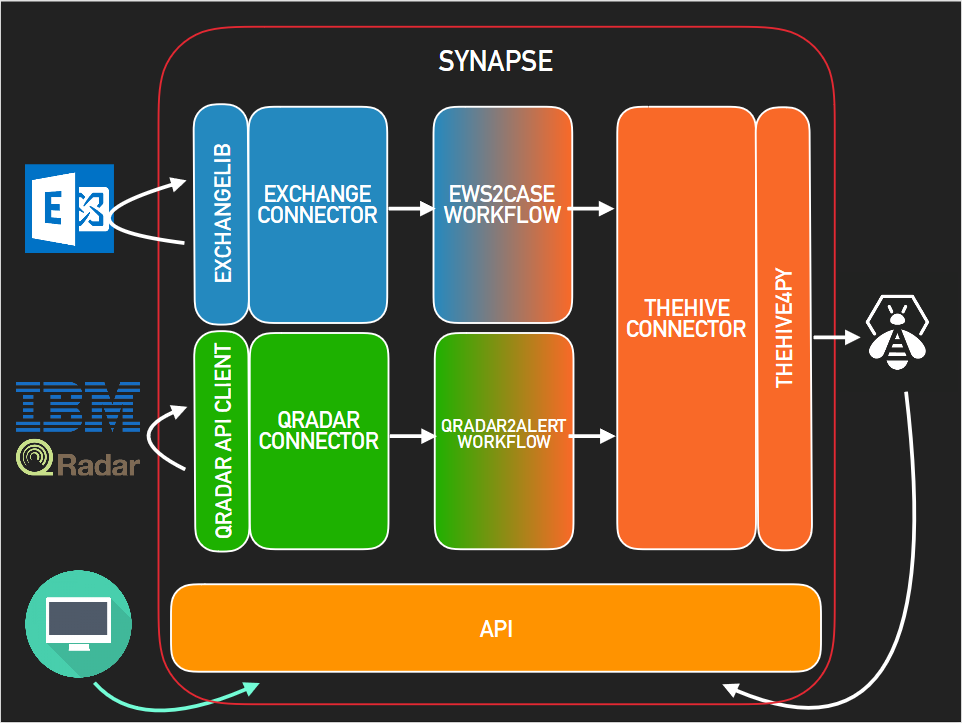
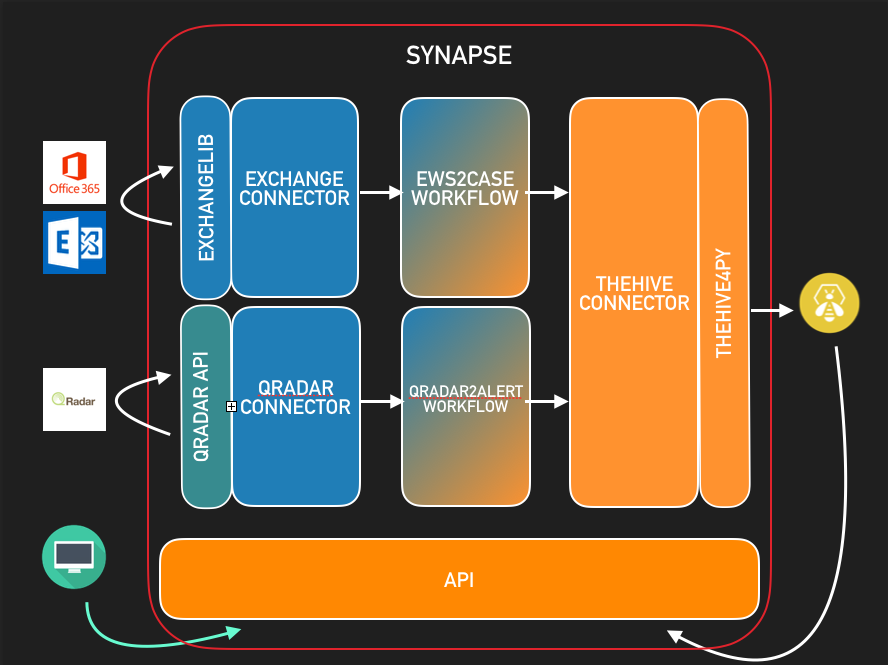
Add code of conduct. Update and clean README. Update the overall picture.

diff --git a/README.md b/README.md
@@ -1,46 +1,66 @@
-# Synapse
+Synapse is a free, open source meta alert feeder that allows you to feed [TheHive](https://github.com/TheHive-Project/TheHive) from multiple alert sources at once.   
+It leverages TheHive's API to automate case and alert creation. Thanks to Synapse, you can swiftly create cases or alerts in TheHive out of email notifications or SIEM events.
 
-Synapse is a middleware application that allows you to connect TheHive with other security devices.   
-It leverages TheHive API to automate case and alert creation.   
+Currently, Synapse supports the following alert sources:
 
-Case creation from email or alert creation from SIEM event are casual usecase for Synapse.   
+- Microsoft Exchange
+- Microsoft O365
+- IBM QRadar  
 
-## Big Picture
+# Overview
 
-Most of the time, a usecase implies several actions and conditions.  
-Synapse gathers those into workflows.   
+Most of the time, transforming a security event or a notification about a suspicious email requires several actions and conditions.  Synapse gathers those into workflows.   
 
-In order to have the most user-friendly app possible, we decided to put an API on top of workflows.   
-That way, you would only execute the workflow you are interrested in by "hitting" the corresponding API endpoint.   
+In order to have the most user-friendly application possible, we decided to put an API on top of these workflows.   That way, you would only execute the workflow you are interested in by "hitting" the corresponding API endpoint.   
 
-Workflows implemented at the moment are:
-   * Case creation from email thanks to Exchange Web Service
+The following workflows are currently supported by Synapse:
+   * Case creation from email using Exchange Web Service & O365
    * Alert creation from QRadar offenses
 
 ![](docs/img/big-picture.png)
 
-For detailed explanation on each workflows, have a look at the [workflows page](docs/workflows/README.md).   
+For a detailed explanation of each workflow,  please have a look at the [workflows page](docs/workflows/README.md).   
 
-## How to use
+# Using Synapse
 
-Have a look at the detailed [user guide](docs/user_guide.md), but in short:
+The [user guide](docs/user_guide.md) should contain all the information you need. In short:
 
-   1. Install dependecies
+   1. Install dependencies
    2. Fill in the config file
    3. Execute: ```python3 app.py```
 
-While all OS running python3 can be used for Synapse, we recommend the use of Ubuntu.   
+While all operating systems running Python 3 can be used for Synapse, we recommend the use of Ubuntu.   
 
-## Roadmap
+# License
+Synapse is an open source and free software released under the 
+[AGPL](https://github.com/TheHive-Project/TheHive/blob/master/LICENSE) (Affero General Public License). 
+We, TheHive Project, are committed to ensure that TheHive will remain a free and open source project on the long-run.
 
-   * Alert creation from QRadar offense
+# Updates
+Information, news and updates are regularly posted on [TheHive Project Twitter account](https://twitter.com/thehive_project) and on [the blog](https://blog.thehive-project.org/).
+
+# Contributing
+Please see our [Code of conduct](code_of_conduct.md). We welcome your contributions. Please feel free to fork the code, play with it, make some patches and send us pull requests via [issues](https://github.com/TheHive-Project/Synapse/issues).
+
+# Support
+Please [open an issue on GitHub](https://github.com/TheHive-Project/Synapse/issues) if you'd like to report a bug or 
+request a feature. We are also available on [Gitter](https://gitter.im/TheHive-Project/TheHive) to help you out.
+
+If you need to contact the project team, send an email to <support@thehive-project.org>.
+
+# Community Discussions
+We have set up a Google forum at <https://groups.google.com/a/thehive-project.org/d/forum/users>. To request access, you need a Google account. You may create one [using a Gmail address](https://accounts.google.com/SignUp?hl=en) or [without it](https://accounts.google.com/SignUpWithoutGmail?hl=en).
+
+# Website
+<https://thehive-project.org/>
+
+# Roadmap
+
    * Closing QRadar offense after closing TheHive case or alert
    * Scheduler to periodically execute workflows
 
-## Special thanks
+## Special Thanks
 
-Kudos to Erik Cederstrand for his amazing work on Exchangelib.   
-Check his others projects [here](https://github.com/ecederstrand).   
+Kudos to [Erik Cederstrand](https://github.com/ecederstrand) for his amazing work on Exchangelib. 
 
-Kudos to IBM teams for providing a python QRadar API client to the community.   
-Check it [here](https://github.com/ibm-security-intelligence/api-samples).   
+We also would like to thank the IBM team for providing a Python [QRadar API client](https://github.com/ibm-security-intelligence/api-samples) to the community.

diff --git a/code_of_conduct.md b/code_of_conduct.md
@@ -1,0 +1,80 @@
+# Contributor Covenant Code of Conduct
+
+## Our Pledge
+
+In the interest of fostering an open and welcoming environment, we as
+contributors and maintainers pledge to making participation in our project and
+our community a harassment-free experience for everyone, regardless of age, body
+size, disability, ethnicity, gender identity and expression, level of experience,
+nationality, personal appearance, race, religion, or sexual identity and
+orientation.
+
+## Our Standards
+
+Examples of behavior that contributes to creating a positive environment
+include:
+
+* Using welcoming and inclusive language
+* Being respectful of differing viewpoints and experiences
+* Gracefully accepting constructive criticism
+* Focusing on what is best for the community
+* Showing empathy towards other community members
+
+Examples of unacceptable behavior by participants include:
+
+* The use of sexualized language or imagery and unwelcome sexual attention or
+  advances
+* Trolling, insulting/derogatory comments, and personal or political attacks
+* Public or private harassment
+* Publishing others' private information, such as a physical or electronic
+  address, without explicit permission
+* Other conduct which could reasonably be considered inappropriate in a
+  professional setting
+
+## Our Responsibilities
+
+Project maintainers are responsible for clarifying the standards of acceptable
+behavior and are expected to take appropriate and fair corrective action in
+response to any instances of unacceptable behavior, in compliance with the
+licensing terms applying to the Project developments.
+
+Project maintainers have the right and responsibility to remove, edit, or
+reject comments, commits, code, wiki edits, issues, and other contributions
+that are not aligned to this Code of Conduct, or to ban temporarily or
+permanently any contributor for other behaviors that they deem inappropriate,
+threatening, offensive, or harmful. However, these actions shall respect the
+licensing terms of the Project Developments that will always supersede such
+Code of Conduct.
+
+## Scope
+
+This Code of Conduct applies both within project spaces and in public spaces
+when an individual is representing the project or its community. Examples of
+representing a project or community include using an official project e-mail
+address, posting via an official social media account, or acting as an appointed
+representative at an online or offline event. Representation of a project may be
+further defined and clarified by project maintainers.
+
+## Enforcement
+
+Instances of abusive, harassing, or otherwise unacceptable behavior may be
+reported by contacting the project team at support@thehive-project.org. The project team
+will review and investigate all complaints, and will respond in a way that it deems
+appropriate to the circumstances. The project team is obligated to maintain
+confidentiality with regard to the reporter of an incident.
+Further details of specific enforcement policies may be posted separately.
+
+Project maintainers who do not follow or enforce the Code of Conduct in good
+faith may face temporary or permanent repercussions as determined by other
+members of the project's leadership.
+
+## Attribution
+
+This Code of Conduct is adapted from the [Contributor Covenant][homepage], version 1.4,
+available at [http://contributor-covenant.org/version/1/4][version]
+
+This version includes a clarification to ensure that the code of conduct is in
+compliance with the free software licensing terms of the project.
+
+[homepage]: http://contributor-covenant.org
+[version]: http://contributor-covenant.org/version/1/4/
